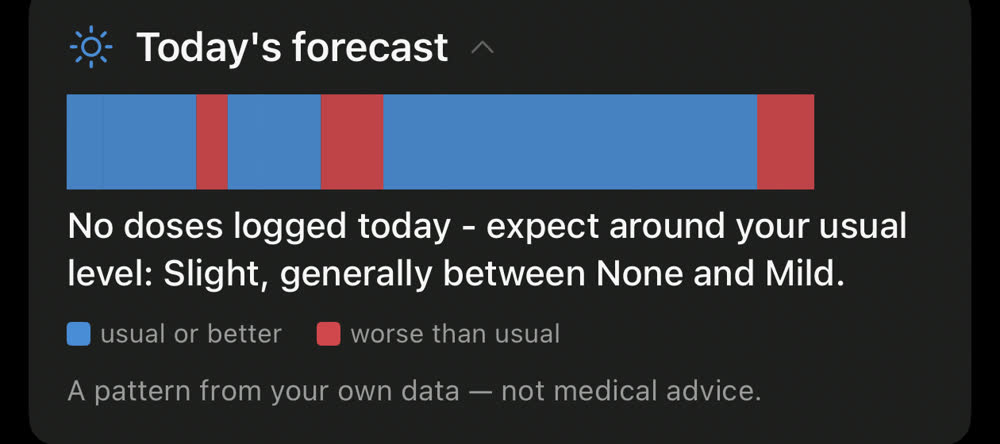
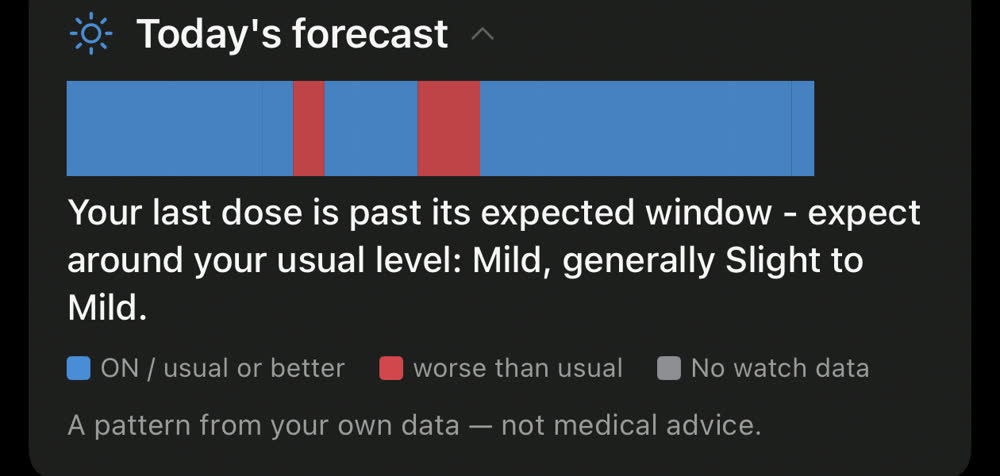
Website: match crops to their frames, and use the newer forecast capture
The device bezel only reads as a phone at true full-screen proportions. Short
crops inside it turned the hero into a stubby rounded rectangle and clipped the
insights list mid-card.

- Hero is now the full-frame Jul 29 Review capture, ratio 2.17, so the bezel is
  correct. All six remaining bezels now measure 2.10-2.12.
- Insights moves out of the phone into a bordered card, the same grammar the
  tremor callout and forecast panel already use, and the crop closes on a whole
  card instead of halfway through one. Five complete findings visible.
- Forecast panel swapped to the 10:48 PM capture, which reads "Your last dose is
  past its expected window" and carries the third legend key (no watch data).
- Barcode and symptom crops end at clean boundaries; their column widened so
  they are legible rather than decorative.

diff --git a/website/index.html b/website/index.html
@@ -484,7 +484,16 @@
             gap: 64px;
             align-items: center;
         }
-        .insight-lede .phone { width: 300px; }
+        /* Cropped list, so a bordered card - not a device bezel, which only reads
+           as a phone at true full-screen proportions. */
+        .insight-shot {
+            width: 340px;
+            border: 1px solid var(--border);
+            border-radius: 18px;
+            overflow: hidden;
+            background: var(--surface-2);
+        }
+        .insight-shot img { width: 100%; display: block; }
         .insight-points { display: flex; flex-direction: column; gap: 26px; }
         .ipoint strong {
             display: block; font-size: 15.5px; font-weight: 600;
@@ -493,7 +502,7 @@
         .ipoint span { font-size: 14.5px; color: var(--text-2); line-height: 1.65; font-weight: 380; }
         @media (max-width: 900px) {
             .insight-lede { grid-template-columns: 1fr; gap: 40px; justify-items: center; }
-            .insight-lede .phone { width: 100%; max-width: 300px; }
+            .insight-shot { width: 100%; max-width: 340px; }
             .insight-points { max-width: 520px; }
         }
 
@@ -693,7 +702,7 @@
         }
         .door {
             display: grid;
-            grid-template-columns: 150px 1fr;
+            grid-template-columns: 178px 1fr;
             gap: 24px;
             align-items: center;
             background: var(--surface-2);
@@ -1005,7 +1014,7 @@
     </div>
     <div class="phone-wrap">
         <div class="phone">
-            <img src="images/review-today.jpg" alt="Kampa's Review screen for Wednesday, July 29: sleep score 73, tremor average 1.0 (Slight), HRV 61 ms, dyskinesia 0.0, above a full-day tremor chart with medication, food and walking marked">
+            <img src="images/review-today.jpg" alt="Kampa's Review screen for Wednesday, July 29: sleep score 73, tremor average 1.0 (Slight), HRV 56 ms, dyskinesia 0.0, above a full-day tremor chart with food and walking marked, and Today's forecast below it">
         </div>
         <div class="phone-glow"></div>
     </div>
@@ -1187,7 +1196,7 @@
             <p><strong>And when no dose is active</strong> - a day you haven't dosed yet, or hours after the last one has cleared - it stops projecting windows and shows your own typical range instead, saying which it's doing and why.</p>
         </div>
         <div class="forecast-shot">
-            <img src="images/forecast-panel.jpg" alt="Kampa's Today's forecast panel: a banded timeline in blue and red above the line 'expect around your usual level: Slight, generally between None and Mild', with a legend reading usual or better / worse than usual">
+            <img src="images/forecast-panel.jpg" alt="Kampa's Today's forecast panel: a banded timeline in blue and red above the line 'Your last dose is past its expected window - expect around your usual level: Mild, generally Slight to Mild', with a legend reading ON / usual or better, worse than usual, and no watch data">
         </div>
     </div>
 </div>
@@ -1214,9 +1223,8 @@
     <h2 class="section-h">The patterns you'd never spot yourself.</h2>
     <p class="section-p">A single day shows what happened. Across weeks and months, the Insights view surfaces the longer patterns - how your medication really performs, when wearing-off tends to hit, how your walking is trending - each with an honest confidence level, and only when the data actually supports it.</p>
     <div class="insight-lede">
-        <div class="phone-wrap">
-            <div class="phone"><img src="images/insights-list.jpg" alt="Kampa's Insights list: dose coverage and mobility findings marked Strong, separate Moderate cards measuring Mucuna Pruriens and Sinemet, and two Emerging cards reporting that caffeine and sugar sit inside normal daily variation"></div>
-            <div class="phone-glow"></div>
+        <div class="insight-shot">
+            <img src="images/insights-list.jpg" alt="Kampa's Insights list: dose coverage and mobility findings marked Strong, separate Moderate cards measuring Mucuna Pruriens and Sinemet, and an Emerging card reporting that caffeine sits inside normal daily variation">
         </div>
         <div class="insight-points">
             <div class="ipoint">
@@ -1233,7 +1241,7 @@
             </div>
             <div class="ipoint">
                 <strong>It will tell you when there's nothing there</strong>
-                <span>Caffeine and sugar both come back as "inside your usual daily variation." A finding of no effect is a finding, and Kampa reports it rather than inventing a pattern.</span>
+                <span>Caffeine comes back as "inside your usual daily variation" - the app's own way of saying it found nothing. A finding of no effect is still a finding, and Kampa reports it rather than inventing a pattern.</span>
             </div>
         </div>
     </div>
